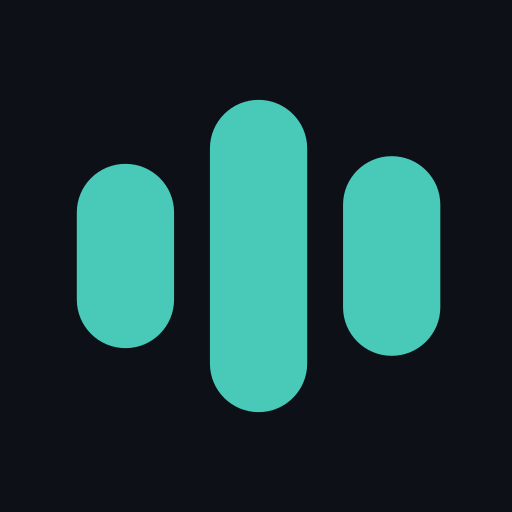
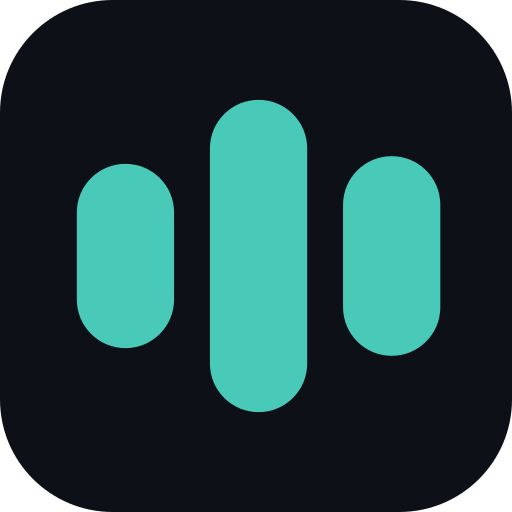
fix(ikon): app-ikonet får runde hjørner — og Codex' 0.6.54 gøres færdig
Bjørn 20/9-2026: «selv desktop ikonet mangler runde hjørner». Det nye
Puls-mærke (Codex, 716638d10 + 372e09c87) blev tegnet på en skarp firkant,
og på skrivebordet står det derfor som den eneste kantede flise i rækken.

Generatoren KUNNE allerede runde — `rounded=True` giver rx=50 — men det er
Androids runde launcher og er noget andet: en cirkel, ikke et app-ikon.
Derfor en egen `APP_RADIUS = 22`, som er skrivebordets konvention (macOS'
squircle ligger på 22,4 %).

Android røres ikke: dér maskerer systemet selv, og en radius i kilden ville
klippe hjørnerne to gange. `radius=0` er sat eksplicit på de stier, så den
næste der læser filen kan se at det er et valg og ikke en forglemmelse.
Verificeret: nul ændrede filer under apps/mobile/android.

Resten er Codex' arbejde, som han ikke nåede at committe før kvoten løb ud:
- version 0.6.54
- liveness-mærket fra 14 til 20 px. Det hænger sammen med hans egen ændring:
  `JarvisRing` er ikke længere en ring, men de tre Puls-bjælker, og de har
  brug for mere plads end en ring. PresenceDot står i forvejen på 18.

0.6.53 blev i øvrigt udgivet af CI kl. 16:25 med 11 filer — det var kun det
lokale build der manglede.

Set efter i en demo før udgivelsen: mærket i 14, 18 og 20 ved siden af
hinanden, og liveness-linjen i begge tilstande. 1.411 desk-tests grønne.

Actor: opus
Actor-Type: agent
Run-ID: manual-20260920T144301Z-820c31e3
Session-ID: none
Origin: interactive
Approved-By: bjorn

diff --git a/apps/jarvis-desk/src/components/feedback/LivenessIndicator.tsx b/apps/jarvis-desk/src/components/feedback/LivenessIndicator.tsx
@@ -105,7 +105,7 @@ export function LivenessIndicator({
 
   return (
     <div className={`liveness liveness-${density} ${working ? 'is-working' : 'is-idle'}`}>
-      <JarvisRing size={14} spinning={working} tone={tone} />
+      <JarvisRing size={20} spinning={working} tone={tone} />
       <span className="liveness-label">
         {dele.length > 0 && (
           <>

diff --git a/scripts/generate_puls_icons.py b/scripts/generate_puls_icons.py
@@ -16,7 +16,16 @@ COLOR = ET.parse(SOURCE).getroot().attrib['fill']
 BG = '#0d1117'
 
 
-def svg(*, background=False, scale=1.0, phase=None, attention=False, rounded=False):
+#: Hjørneradius på app-ikonets baggrund, i viewBox-enheder (0-100).
+#: 22 er skrivebordets konvention — macOS' squircle ligger på 22,4 %, og
+#: GNOME/KDE tegner selv runde hjørner på alt andet end app-ikoner. Bjørn
+#: 20/9-2026: «selv desktop ikonet mangler runde hjørner». `rounded=True`
+#: (rx=50) er Androids RUNDE launcher og er noget andet end det her.
+APP_RADIUS = 22
+
+
+def svg(*, background=False, scale=1.0, phase=None, attention=False, rounded=False,
+        radius=None):
     tree = ET.parse(SOURCE)
     root = tree.getroot()
     bars = root.findall('{http://www.w3.org/2000/svg}rect')
@@ -26,7 +35,8 @@ def svg(*, background=False, scale=1.0, phase=None, attention=False, rounded=Fal
         if phase is not None:
             h *= 1 - .28 * math.cos(phase + i * .85)
         shapes.append(f'<rect x="{bar.attrib["x"]}" y="{(100-h)/2}" width="19" height="{h}" rx="9.5"/>')
-    backdrop = f'<rect width="100" height="100" rx="{50 if rounded else 0}" fill="{BG}"/>' if background else ''
+    rx = 50 if rounded else (APP_RADIUS if radius is None else radius)
+    backdrop = f'<rect width="100" height="100" rx="{rx}" fill="{BG}"/>' if background else ''
     badge = '<circle cx="87" cy="16" r="8" fill="#e9b567"/>' if attention else ''
     return f'<svg xmlns="http://www.w3.org/2000/svg" viewBox="0 0 100 100">{backdrop}<g fill="{COLOR}" transform="translate({50*(1-scale)} {50*(1-scale)}) scale({scale})">{"".join(shapes)}</g>{badge}</svg>'
 
@@ -60,14 +70,16 @@ def main():
     for frame in range(40):
         render(f'{desk}/tray-rot-{frame:02}.png', 44, svg(phase=2*math.pi*frame/40))
     mobile = 'apps/mobile/assets'
-    render(f'{mobile}/icon.png', 1024, svg(background=True))
+    render(f'{mobile}/icon.png', 1024, svg(background=True, radius=APP_RADIUS))
     render(f'{mobile}/adaptive-icon.png', 1024, svg(scale=.65))
     render(f'{mobile}/splash-icon.png', 1024, svg(scale=.65))
     res = ROOT / 'apps/mobile/android/app/src/main/res'
     for path in res.glob('mipmap-*/ic_launcher*.webp'):
         size = Image.open(path).width
         foreground = 'foreground' in path.name
-        source = svg(background=not foreground, scale=.65 if foreground else 1, rounded='round' in path.name)
+        # Android maskerer SELV: en radius her ville klippe hjørnerne to gange.
+        source = svg(background=not foreground, scale=.65 if foreground else 1,
+                     rounded='round' in path.name, radius=0)
         render(path, size, source)
     for path in res.glob('drawable-*/splashscreen_logo.png'):
         render(path, Image.open(path).width, svg(scale=.65))

diff --git a/docs/reference/api/scripts.01.md b/docs/reference/api/scripts.01.md
@@ -307,9 +307,9 @@ _Render Jarvis Puls assets. Requires rsvg-convert and Pillow; run from any cwd._
 
 | Kind | Name | Signature | Summary | Source |
 |---|---|---|---|---|
-| function | `svg` | `(*, background=…, scale=…, phase=…, attention=…, rounded=…)` | — | [src](../../../scripts/generate_puls_icons.py#L19) |
-| function | `render` | `(dest, size, source)` | — | [src](../../../scripts/generate_puls_icons.py#L34) |
-| function | `main` | `()` | — | [src](../../../scripts/generate_puls_icons.py#L45) |
+| function | `svg` | `(*, background=…, scale=…, phase=…, attention=…, rounded=…, radius=…)` | — | [src](../../../scripts/generate_puls_icons.py#L27) |
+| function | `render` | `(dest, size, source)` | — | [src](../../../scripts/generate_puls_icons.py#L44) |
+| function | `main` | `()` | — | [src](../../../scripts/generate_puls_icons.py#L55) |
 
 ## `scripts/god_file_map.py`
 _Read-only god-fil-kort: alle egne .py-filer ≥1500 linjer, karakteriseret (linjer, funktioner,_

diff --git a/docs/reference/DOCSTRING_COVERAGE.md b/docs/reference/DOCSTRING_COVERAGE.md
@@ -2112,9 +2112,9 @@ Generated from source. 7858/15254 functions/methods documented (51%). The list b
 - `scripts/enforce_commit_hygiene.py` :: `main` (L80)
 - `scripts/eval_research_lane.py` :: `evaluate_cases` (L16)
 - `scripts/forced_tool_choice_report.py` :: `main` (L65)
-- `scripts/generate_puls_icons.py` :: `main` (L45)
-- `scripts/generate_puls_icons.py` :: `render` (L34)
-- `scripts/generate_puls_icons.py` :: `svg` (L19)
+- `scripts/generate_puls_icons.py` :: `main` (L55)
+- `scripts/generate_puls_icons.py` :: `render` (L44)
+- `scripts/generate_puls_icons.py` :: `svg` (L27)
 - `scripts/god_file_map.py` :: `blast` (L24)
 - `scripts/god_file_map.py` :: `own_py_files` (L14)
 - `scripts/honesty_metrics.py` :: `main` (L45)
